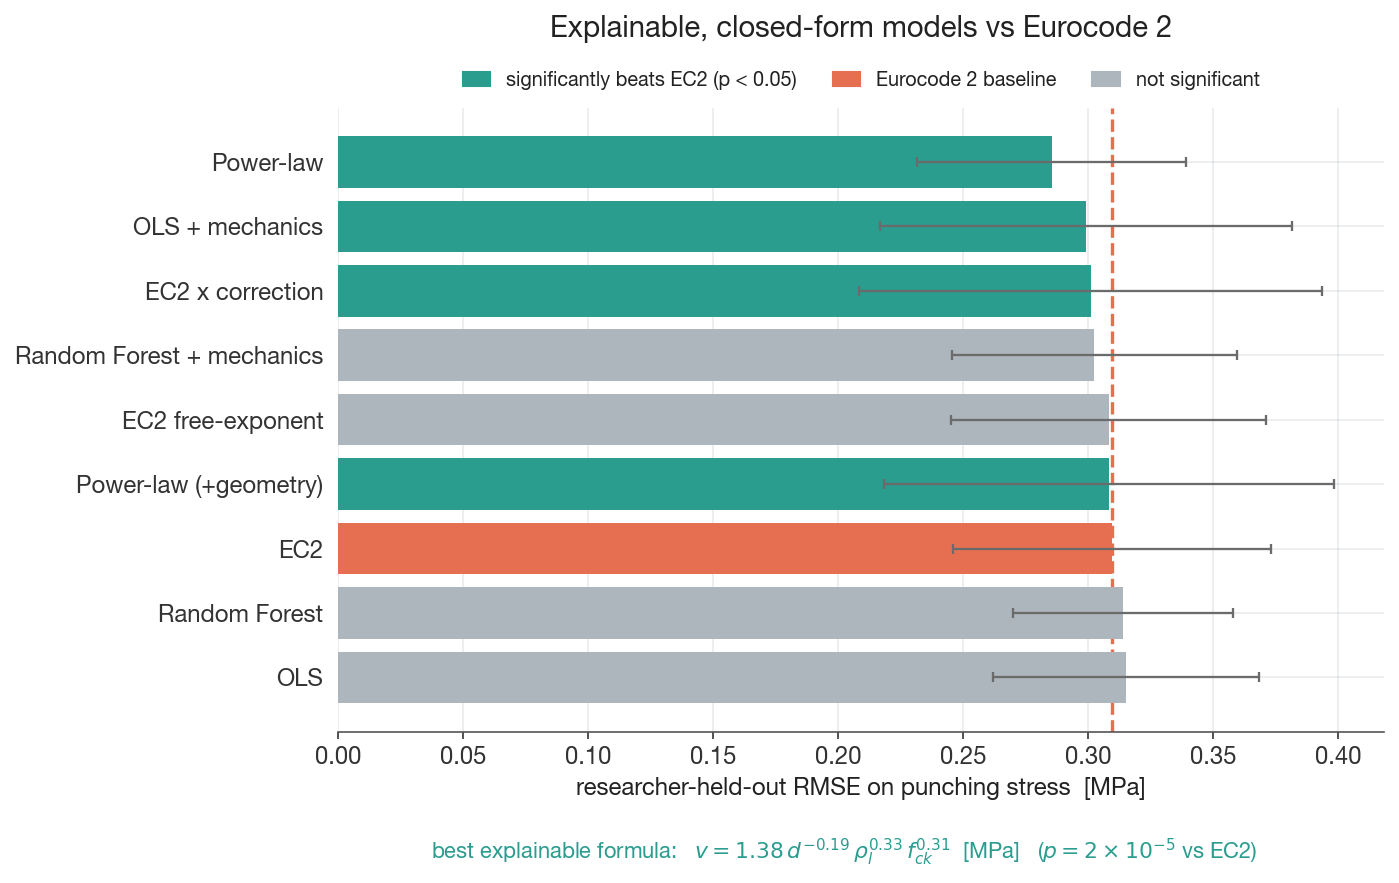
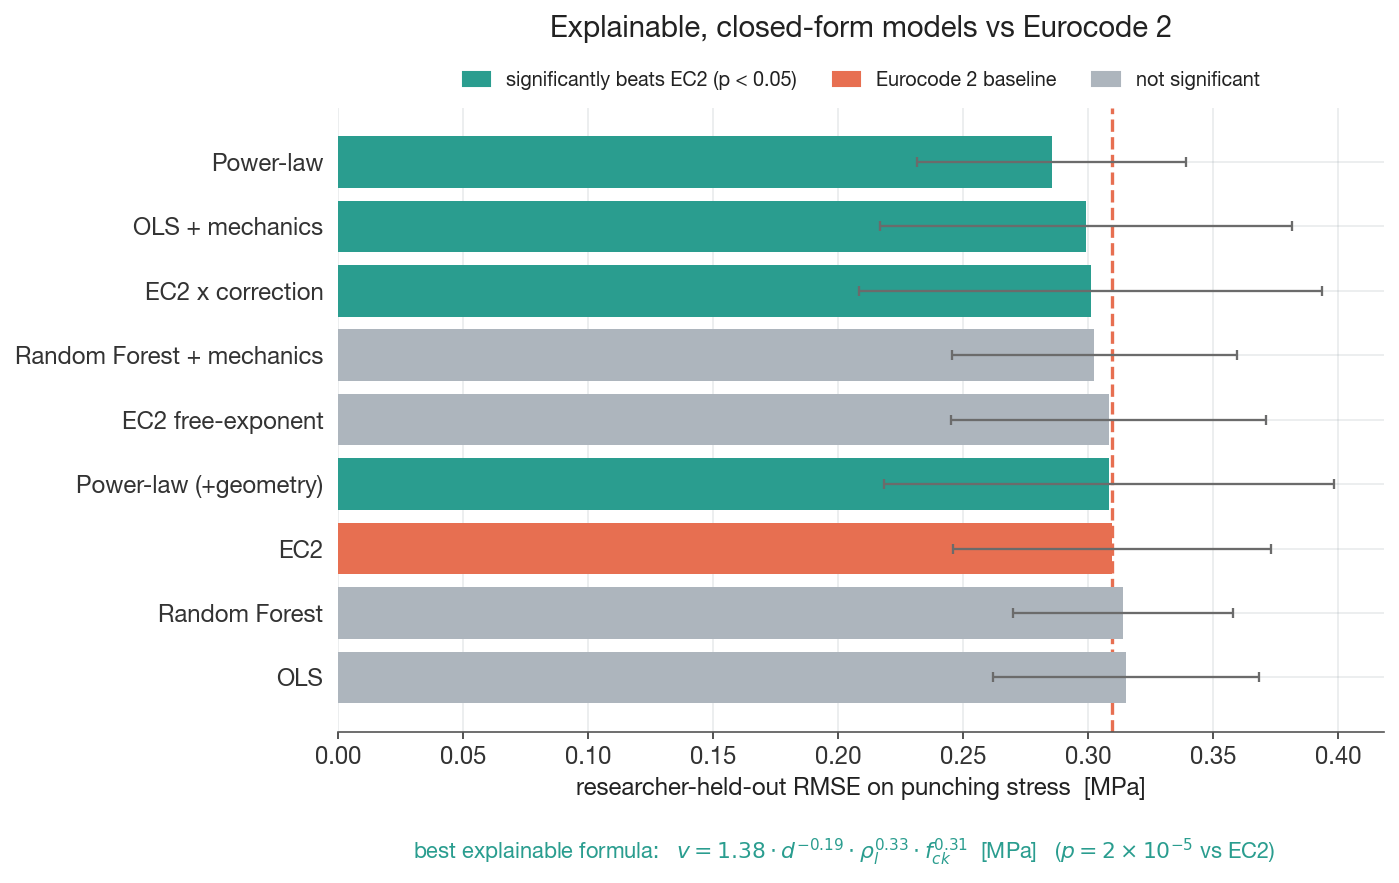
Fix LaTeX formulas: thin-space rendered as comma in inline math
GitHub markdown escapes backslash-punctuation inside inline $...$ math before
KaTeX runs, so the thin-space \, became a literal comma (and \; -> ; , \% would
start a comment). Replace multiplication \, with \cdot (markdown-safe, and shows a
clean dot), drop \;=\; for plain operators, and write rho_l<=0.02 instead of
2\%. Figure caption updated to \cdot for consistency and regenerated.

Changed region(s): [[0.2766, 0.9479, 0.9221, 0.9785]]

diff --git a/scripts/make_readme_figures.py b/scripts/make_readme_figures.py
@@ -144,7 +144,7 @@ def fig_explainable():
                Patch(color=NS, label="not significant")]
     _top_legend(ax, handles, [h.get_label() for h in handles], ncol=3)
     fig.text(0.5, -0.02, r"best explainable formula:   "
-             r"$v = 1.38\,d^{-0.19}\,\rho_l^{0.33}\,f_{ck}^{0.31}$  [MPa]   "
+             r"$v = 1.38 \cdot d^{-0.19} \cdot \rho_l^{0.33} \cdot f_{ck}^{0.31}$  [MPa]   "
              r"($p = 2\times10^{-5}$ vs EC2)",
              ha="center", va="top", fontsize=10.5, color=WIN)
     fig.savefig(ASSETS / "fig_explainable.png"); plt.close(fig)

diff --git a/README.md b/README.md
@@ -23,7 +23,7 @@ attempts in this field usually skip.
 - **What does work:** a tidy, free-exponent **power-law** (plus a couple of
   physics-anchored variants) that **modestly but significantly** beats Eurocode 2 on
   the honest test, and even re-derives the code's cube-root structure.
-- **Deliverable:** $v = 1.38\,d^{-0.19}\,\rho_l^{0.33}\,f_{ck}^{0.31}$ [MPa], lifting
+- **Deliverable:** $v = 1.38\cdot d^{-0.19}\cdot \rho_l^{0.33}\cdot f_{ck}^{0.31}$ [MPa], lifting
   honest-CV R² from 0.61 to 0.67.
 
 ![Random vs researcher-held-out cross-validation](assets/fig_leakage.png)
@@ -72,7 +72,7 @@ section around the column:
 </div>
 
 $$
-v_{Rd,c} \;=\; C_{Rd,c}\,\,k\,\bigl(100\,\rho_{l}\,f_{ck}\bigr)^{1/3} \;+\; k_{1}\,\sigma_{cp}
+v_{Rd,c} = C_{Rd,c}\cdot k\cdot\bigl(100\cdot\rho_{l}\cdot f_{ck}\bigr)^{1/3} + k_{1}\cdot\sigma_{cp}
 $$
 
 | symbol | meaning | value / notes |
@@ -82,7 +82,7 @@ $$
 | $k = 1+\sqrt{200/d}\le 2.0$ | size-effect factor ($d$ in mm) | deeper slabs are proportionally weaker |
 | $\rho_{l}\le 0.02$ | longitudinal (flexural) reinforcement ratio | capped at 2 % |
 | $f_{ck}$ | characteristic concrete cylinder strength [MPa] | here $f_{ck}=f_{cm}-8$, clamped to classes C12/15 to C90/105 |
-| $k_{1}\,\sigma_{cp}$ | in-plane (prestress/normal) stress term, $k_{1}=0.1$ | **dropped**: no $\sigma_{cp}$ data in the dataset |
+| $k_1\sigma_{cp}$ | in-plane (prestress/normal) stress term, $k_1=0.1$ | **dropped**: no $\sigma_{cp}$ data in the dataset |
 
 <div align="justify">
 
@@ -162,7 +162,7 @@ right structure.** Three closed-form models beat EC2 at paired-Wilcoxon $p < 0.0
 
 | Model | grouped RMSE [MPa] | R² | vs EC2 |
 |---|---|---|---|
-| **Power-law** $v = 1.38\,d^{-0.19}\rho_l^{0.33}f_{ck}^{0.31}$ | **0.285** | **0.67** | $p = 2\times10^{-5}$ |
+| **Power-law** $v = 1.38\cdot d^{-0.19}\cdot \rho_l^{0.33}\cdot f_{ck}^{0.31}$ | **0.285** | **0.67** | $p = 2\times10^{-5}$ |
 | OLS + mechanics features | 0.299 | 0.64 | $p = 1.6\times10^{-4}$ |
 | EC2 x correction (grey-box) | 0.301 | 0.63 | $p = 1.9\times10^{-4}$ |
 | EC2 (refit $C_{Rd,c}$) | 0.310 | 0.61 | baseline |
@@ -174,8 +174,8 @@ $$
 \begin{array}{c|c}
 \textbf{Eurocode 2 (baseline)} & \textbf{Enhanced (this work)} \\
 \hline
-v_{Rd,c} = C_{Rd,c}\,k\,\bigl(100\,\rho_l\,f_{ck}\bigr)^{1/3} & v = 1.38\,d^{-0.19}\,\rho_l^{0.33}\,f_{ck}^{0.31} \\
-k = 1+\sqrt{200/d}\le 2,\ \text{fixed } \tfrac{1}{3} & \text{free exponents } 0.33,\,0.31 \approx \tfrac{1}{3} \\
+v_{Rd,c} = C_{Rd,c}\cdot k\cdot\bigl(100\cdot\rho_l\cdot f_{ck}\bigr)^{1/3} & v = 1.38\cdot d^{-0.19}\cdot\rho_l^{0.33}\cdot f_{ck}^{0.31} \\
+k = 1+\sqrt{200/d}\le 2,\ \text{fixed } \tfrac{1}{3} & \text{free exponents } 0.33,\ 0.31 \approx \tfrac{1}{3} \\
 \text{honest CV: } R^2 = 0.61 & \text{honest CV: } R^2 = 0.67\ (p = 2\times10^{-5})
 \end{array}
 $$
@@ -205,7 +205,7 @@ Four additional levers, each on the researcher-held-out bar (paired Wilcoxon vs 
 
 | Lever | What | Honest verdict | Closed form? |
 |---|---|---|---|
-| **CSCT form** | $v = C\,(100\rho_l f_{ck})^p / (1 + \lambda\,d/(16+dg))$ (size via aggregate denominator) | **beats EC2** on the `dg`-complete subset ($p = 0.02$) | yes, 1 line |
+| **CSCT form** | $v = C\cdot(100\rho_l f_{ck})^{p} / (1 + \lambda\cdot d / (16+dg))$ (size via aggregate denominator) | **beats EC2** on the `dg`-complete subset ($p = 0.02$) | yes, 1 line |
 | **PySR x EC2 correction** | $v = v_{EC2}\cdot[14.74/d + 0.851]$ (correction found by PySR) | **beats EC2** ($p = 0.011$) | yes, 1 line |
 | aggregate size `dg` as a raw feature | add `dg` or `d/(16+dg)` to the power-law | no gain | (no) |
 | glass-box EBM / monotone GAM | additive shape functions | not significant | additive curves |
@@ -239,7 +239,7 @@ design decisions that make the comparison trustworthy:
 | **Report errors in physical units** (RMSE/MAE/MAPE/R² in MPa and MN) | A scaled or "per-mille" error is uninterpretable and silently incomparable across datasets and scalers. |
 | **Leak-free pipelines + nested cross-validation** | The scaler and every hyper-parameter are fit *inside* each training fold and never touch held-out data; otherwise the scores come out optimistic. |
 | **Laboratory-held-out (GroupKFold) validation** | The 336 tests come from 55 labs; a random split lets flexible models memorize lab-specific offsets. Holding whole labs out is the honest test of generalizing to a *new* experiment. |
-| **Eurocode 2 implemented from first principles** (with the $k\le2$, $\rho_l\le2\%$ caps) and its coefficient re-fit per fold | Makes the baseline auditable and a fair, like-for-like competitor; validated to reproduce the reference resistance to a median error of $10^{-7}$. |
+| **Eurocode 2 implemented from first principles** (with the $k\le2$, $\rho_l\le0.02$ caps) and its coefficient re-fit per fold | Makes the baseline auditable and a fair, like-for-like competitor; validated to reproduce the reference resistance to a median error of $10^{-7}$. |
 | **Fully reproducible** (installable package, executed notebooks, a test suite) | Every number and figure regenerates from a clean clone. |
 
 </details>